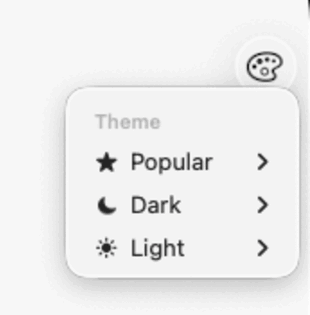
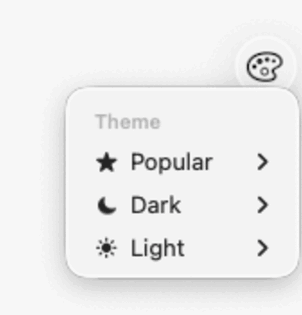
docs: trim themes tile edge, retitle night strip, show hero at 480px

diff --git a/README.md b/README.md
@@ -15,7 +15,7 @@
 </p>
 
 <p align="center">
-  <img src="docs/readme/hero.png" alt="The bundled sample app in day and night: a light terminal session on iPhone with Chinese, Japanese and English input, above a dark-theme session strip" width="720">
+  <img src="docs/readme/hero.png" alt="The bundled sample app in day and night: a light terminal session on iPhone with Chinese, Japanese and English input, above a dark-theme session strip" width="480">
 </p>
 <p align="center"><sub>The bundled sample app in day and night, captured by this repository's UI tests on iPhone and iPad.</sub></p>
 
